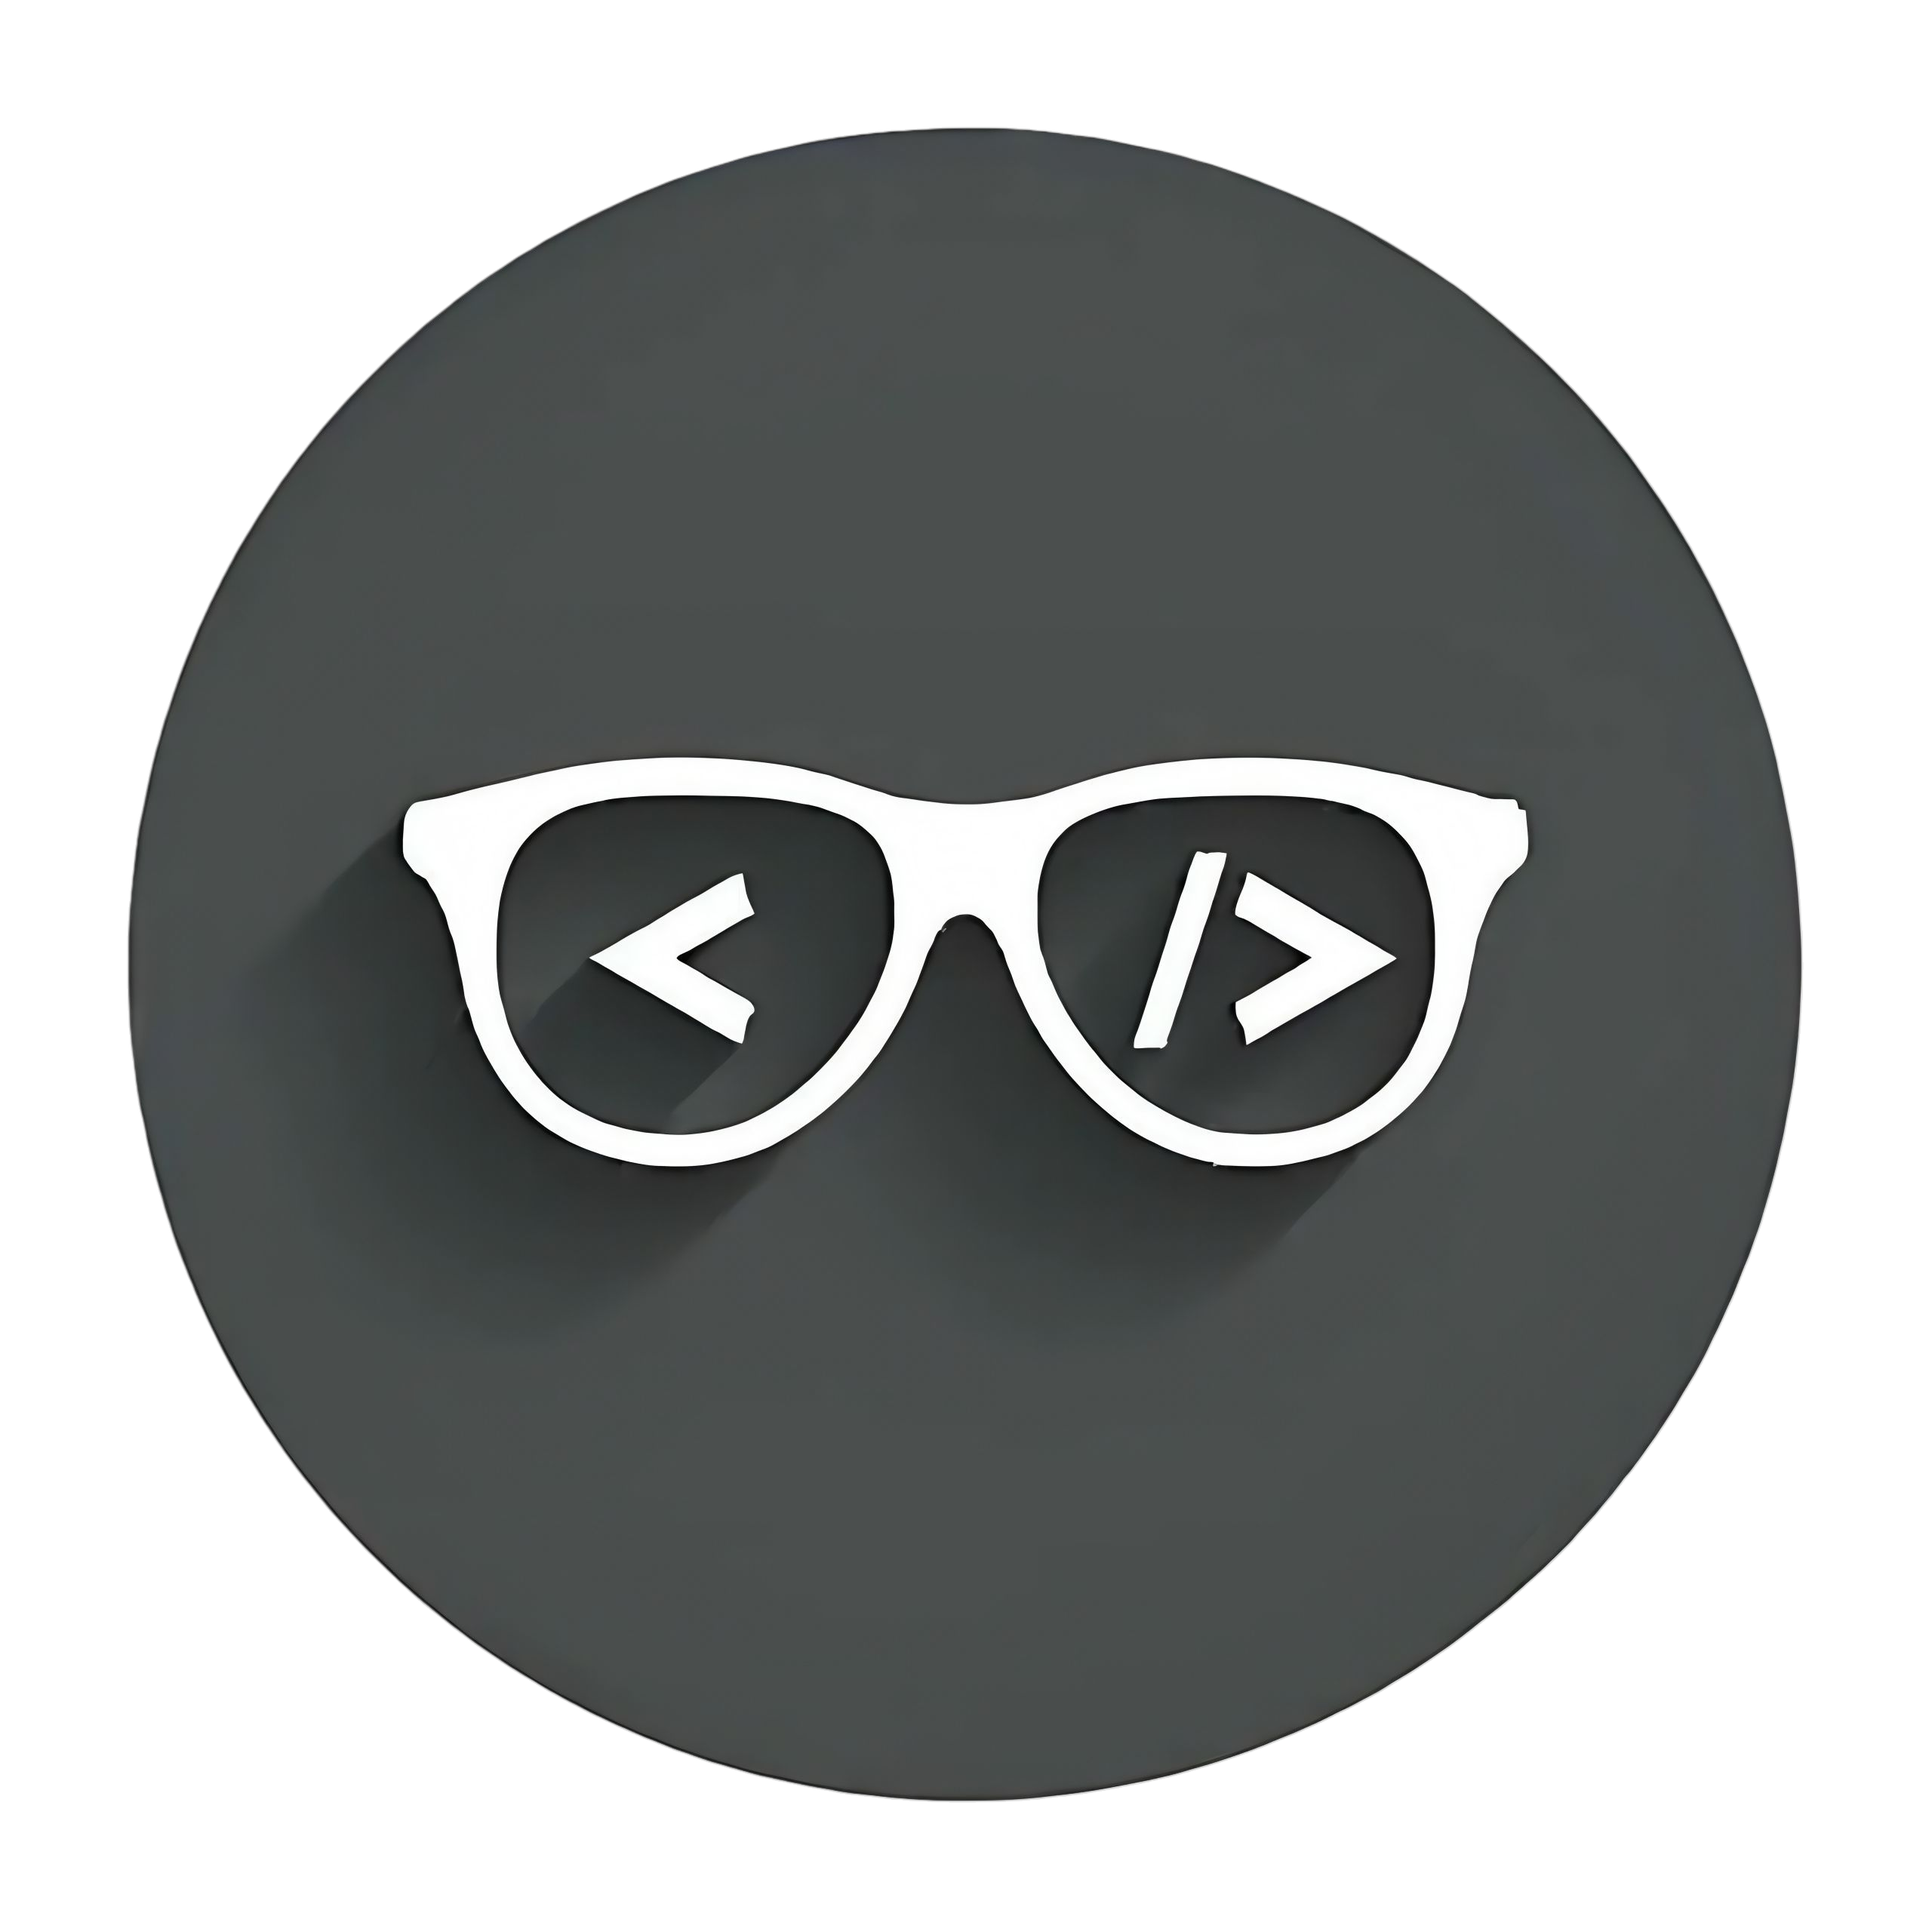
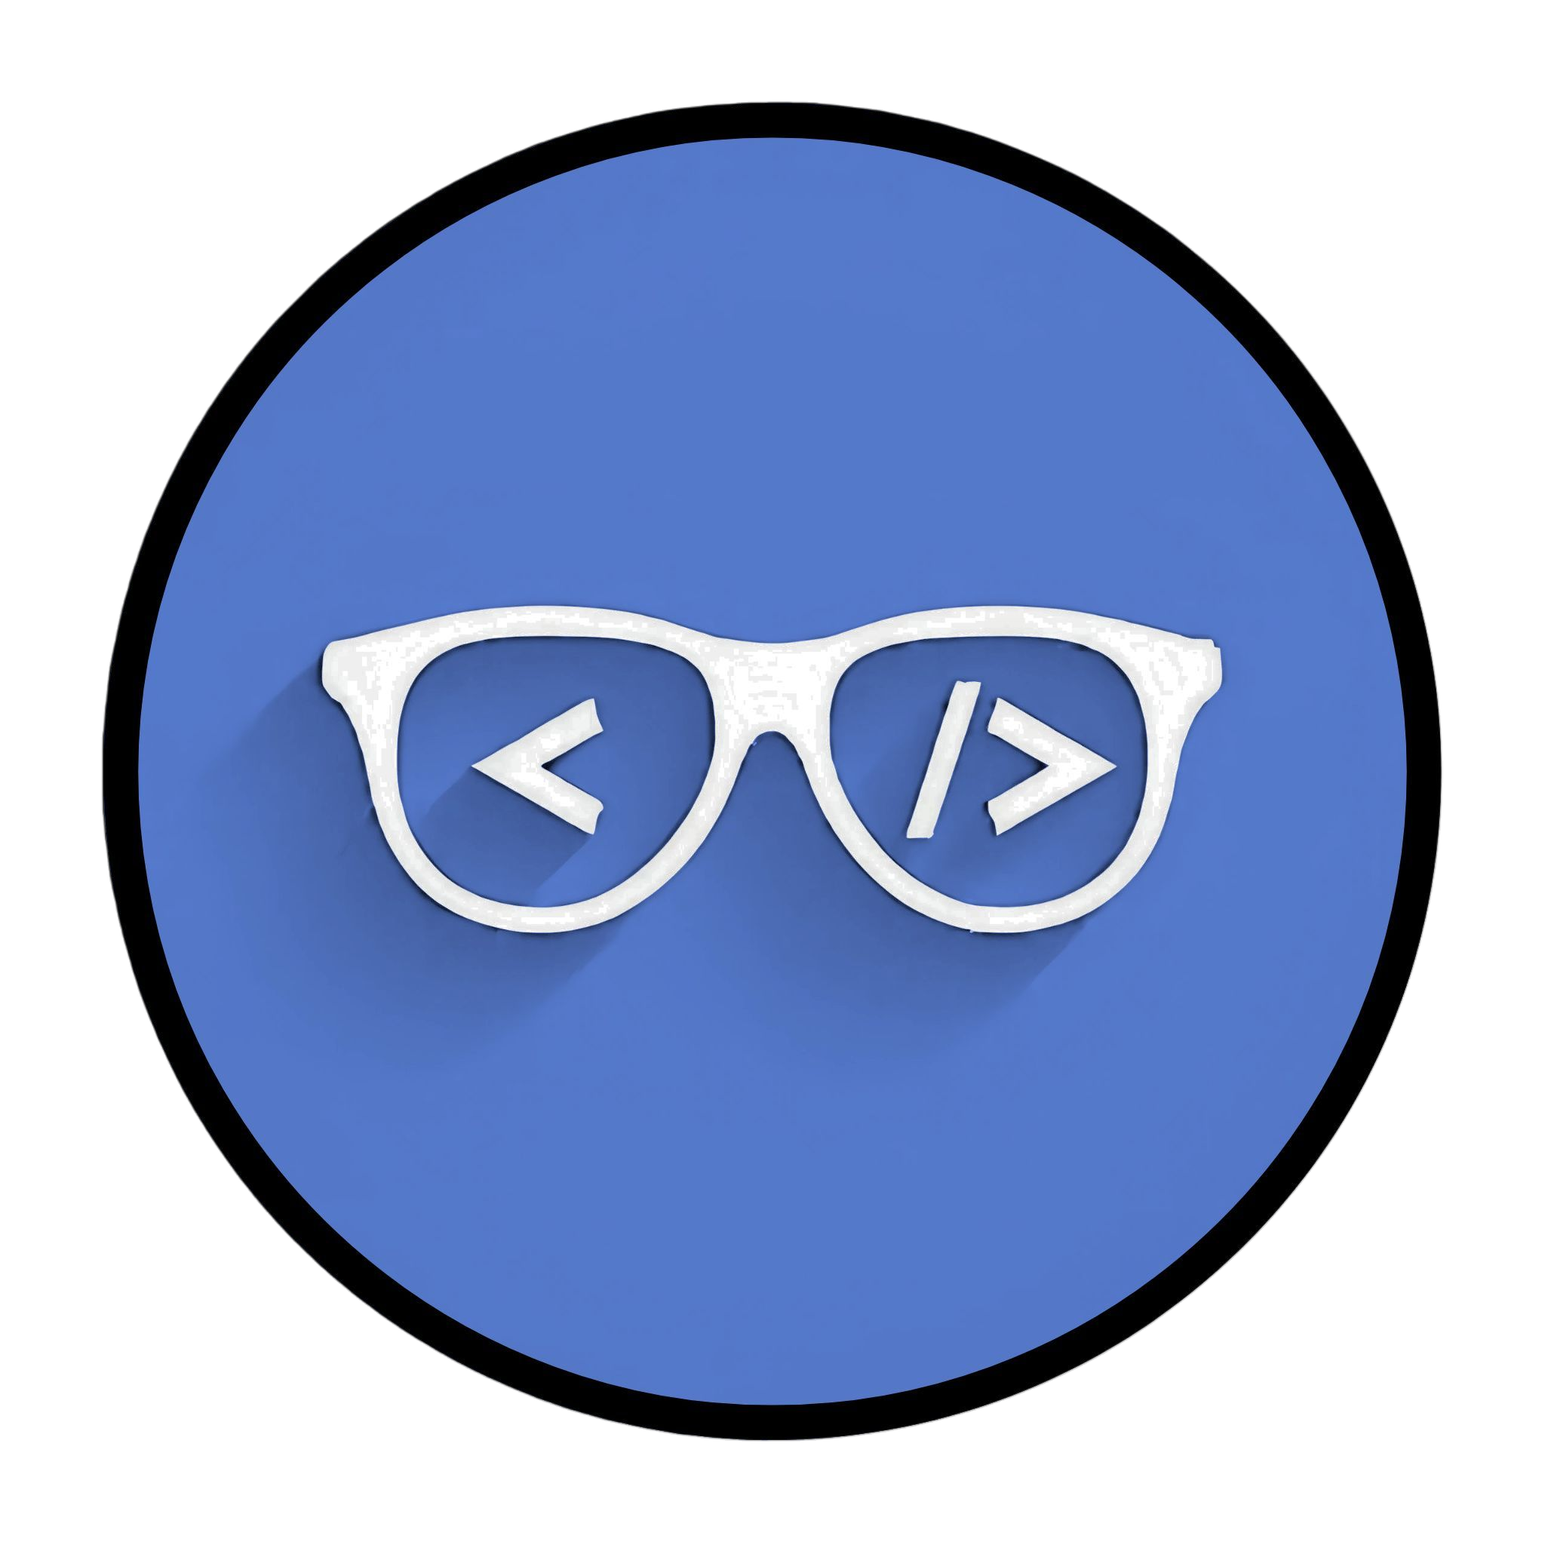
responsive design for large and medium screen. Header are finished.

diff --git a/src/Assets/Header-Blob/BlobClip.jsx b/src/Assets/Header-Blob/BlobClip.jsx
@@ -1,0 +1,26 @@
+import React from "react";
+import OmerTTech from "./OmerTTech.png";
+
+const BlobClip = () => {
+  const polygonPath =
+    "300px 58.74px, 300px 58.74px, 306.69px 71.81px, 311.41px 86.09px, 314.25px 101.37px, 315.27px 117.39px, 314.54px 133.92px, 312.16px 150.73px, 308.18px 167.58px, 302.68px 184.24px, 295.73px 200.46px, 287.42px 216.02px, 287.42px 216.02px, 277.82px 230.69px, 267.09px 244.33px, 255.38px 256.79px, 242.81px 267.95px, 229.56px 277.67px, 215.76px 285.82px, 201.55px 292.26px, 187.09px 296.86px, 172.52px 299.48px, 157.99px 300px, 157.99px 300px, 143.63px 298.4px, 129.53px 294.7px, 115.76px 289.07px, 102.37px 281.65px, 89.45px 272.6px, 77.07px 262.08px, 65.29px 250.23px, 54.18px 237.2px, 43.82px 223.16px, 34.27px 208.25px, 34.27px 208.25px, 25.62px 192.72px, 17.99px 176.69px, 11.52px 160.38px, 6.35px 143.99px, 2.63px 127.73px, 0.49px 111.8px, 0.06px 96.42px, 1.5px 81.78px, 4.94px 68.1px, 10.52px 55.58px, 10.52px 55.58px, 18.41px 44.47px, 28.36px 34.68px, 40.16px 26.19px, 53.55px 18.96px, 68.32px 12.96px, 84.22px 8.14px, 101.01px 4.47px, 118.47px 1.91px, 136.35px 0.44px, 154.43px 0px, 154.43px 0px, 172.48px 0.65px, 190.29px 2.34px, 207.67px 5.11px, 224.41px 9px, 240.31px 14.08px, 255.15px 20.38px, 268.75px 27.95px, 280.89px 36.83px, 291.38px 47.08px, 300px 58.74px";
+  return (
+    <div>
+      <div
+        className="lg:w-[320px] lg:h-[320px] bg-main hover:bg-[#5b7fd1] transition  overflow-hidden"
+        style={{
+          clipPath: `polygon(${polygonPath})`,
+          WebkitClipPath: `polygon(${polygonPath})`,
+        }}
+      >
+        <img
+          src={OmerTTech}
+          alt="My image"
+          className="w-full h-full object-contain saturate-85 brightness-120 bg-size-[30px] drop-shadow-2xl decoration-black scale-110 mt-5"
+        />
+      </div>
+    </div>
+  );
+};
+
+export default BlobClip;

diff --git a/src/Components/Header.jsx b/src/Components/Header.jsx
@@ -6,33 +6,31 @@ import ScrollLink from "./ScrollLink";
 
 const Header = () => {
   return (
-    <div>
-      <h1 className="text-5xl/18 font-[600] w-100">
-        Hi, I am <br />
-        Omer Tapdiqov
-      </h1>
+    <div className="bg-red-500">
+      <h1 className="sm:text-3xl/18 md:text-[32px]/12 md:mt-2 lg:text-5xl/18 font-[600] w-full sm:block md:flex lg:flex flex-col flex-wrap md:flex-nowrap">
+  <span>Hi, I am&nbsp;</span>
+  <span>Omer Tapdiqov</span>
+</h1>
       <div className="mt-2">
         <TypeAnimation
           sequence={[
             // Same substring at the start will only be typed once, initially
             "I am a Web Developer",
-            1500,
+            1250,
             "I am a Frontend Developer",
             2500,
-            "I’m becoming a JavaScript Full Stack Developer",
-            1000,
-            "I aim to be a Senior JavaScript Software Developer",
-            1000,
           ]}
           speed={60}
+          cursor={false}
           className="text-zinc-500 text-xl font-[500]"
           repeat={Infinity}
+          wrapper="span"
         />
         <div className="mt-6">
           <ScrollLink to="contact" duration={2250}>
             <Button
               variant="contained"
-              className="!capitalize !p-2 !text-lg !font-[500] !pe-2.5 !bg-main hover:!bg-light-hover ease"
+              className="!capitalize md:!p-3 lg:!p-2 !text-lg !font-[500] md:!pe-3.5 lg:!pe-2.5 !bg-main hover:!bg-dark-hover ease"
               endIcon={<TbSend2 />}
             >
               Contact Me

diff --git a/src/Public/PublicHome.jsx b/src/Public/PublicHome.jsx
@@ -1,10 +1,11 @@
 import React, { useEffect } from "react";
 import Navbar from "../Components/Navbar";
-import SocialIcons from "../Components/SocialIcons";
-import Header from "../Components/Header";
 import { Element, animateScroll as scroll } from "react-scroll";
+import Main from "../Components/Main";
 
 const PublicHome = () => {
+  
+
   useEffect(() => {
     if (window.scrollY < 1) {
       scroll.scrollTo(1);
@@ -12,21 +13,11 @@ const PublicHome = () => {
   }, []);
   return (
     <div className="flex flex-col items-center justify-center ps-4">
-      <div className="w-[1000px] fixed top-0 z-50 flex flex-col items-center">
+      <div className="w-full fixed top-0 z-50 flex flex-col items-center">
         <Navbar />
       </div>
-      <Element name="home" className="w-[1000px]" offset={-70}>
-        <main className="mt-38.5">
-          <section className="grid grid-cols-12">
-            <div className="col-span-1">
-              <SocialIcons />
-            </div>
-            <div className="col-span-8 pt-7.5 ps-20">
-              <Header />
-            </div>
-            <div className="col-span-3">2</div>
-          </section>
-        </main>
+      <Element name="home" className="max-w-[1000px] w-full" offset={-70}>
+        <Main/>
       </Element>
       <Element name="about">
         <section className="h-[100vh]">a</section>

diff --git a/src/Components/Navbar.jsx b/src/Components/Navbar.jsx
@@ -6,16 +6,16 @@ import ScrollLink from "./ScrollLink";
 
 const Navbar = () => {
   return (
-    <nav className="w-[1000px] flex items-center justify-between py-5.5 px-2 text-sm font-[500] bg-white">
+    <nav className="max-w-[1000px] w-full flex items-center justify-between py-5.5 lg:px-2 md:px-5 text-sm font-[500] bg-white">
       <ScrollLink to="home">
         <div className="flex items-center text-[15px] tracking-widest cursor-pointer !text-black">
-          <img src={profile} width={30} height={30} />
+          <img src={profile} className="hover:contrast-125 hover:brightness-95 drop-shadow-black drop-shadow-2xs rounded-full" width={30} height={30} />
           merTTech
         </div>
       </ScrollLink>
       <div>
-        <ul className="flex items-center gap-5 *:px-2 *:py-1 text-[13.5px] tracking-wide *:hover:text-main cursor-pointer">
-          <ScrollLink to="home">
+        <ul className="flex items-center gap-5 *:px-2 *:py-0 text-[13.5px] tracking-wide *:hover:*:text-hover cursor-pointer">
+          <ScrollLink to="home" offset={-70}>
             <li>Home</li>
           </ScrollLink>
           <ScrollLink to="about">

diff --git a/src/Components/Main.jsx b/src/Components/Main.jsx
@@ -1,0 +1,24 @@
+import React from "react";
+import SocialIcons from "../Components/SocialIcons";
+import Header from "../Components/Header";
+import BlobClip from "../Assets/Header-Blob/BlobClip";
+
+const Main = () => {
+  return (
+    <main className="mt-38.5">
+      <section className="grid grid-cols-12">
+        <div className="md:col-span-2 lg:col-span-1 md:pe-10  bg-red-500">
+          <SocialIcons />
+        </div>
+        <div className="md:col-span-5 lg:col-span-6 md:translate-x-[-15px] lg:translate-x-0 pt-7.5 lg:ps-20 bg-red-400">
+          <Header />
+        </div>
+        <div className="md:col-span-5 lg:col-span-5">
+          <BlobClip />
+        </div>
+      </section>
+    </main>
+  );
+};
+
+export default Main;

diff --git a/src/App.css b/src/App.css
@@ -1,11 +1,12 @@
 @import "tailwindcss";
 
 @theme {
-  --color-main: #686a6c;
-  --color-hover: #4c504f;
-  --color-light-hover: #5a5a5a;
-  --color-dark-hover: #9c55ff;
+  --color-main: #5376cb;
+  --color-hover: #3154a9;
+  --color-light-hover: #6487dc;
+  --color-dark-hover: #4265ba;
   --color-white: #f5f5f5;
+  --color-dark: #161a4c;
 
   --drop-shadow-2xs: 0 0px 0.5px rgba(0, 0, 0, 0.1);
   --drop-shadow-3xs: 0 0px 0.375px rgba(0, 0, 0, 0.1);
@@ -15,12 +16,13 @@
 }
 
 .active {
-  color: #686a6c;
+  color: var(--color-main);
 }
 
 body {
   font-family: "Poppins", sans-serif;
   background-color: var(--color-white);
+  color: var(--color-dark);
 }
 a {
   text-decoration: unset;

diff --git a/src/Components/SocialIcons.jsx b/src/Components/SocialIcons.jsx
@@ -8,7 +8,7 @@ import { SlSocialLinkedin } from "react-icons/sl";
 
 const SocialIcons = () => {
   return (
-    <div className="flex flex-col gap-6 ps-4 text-xl text-main *:*:hover:text-hover mt-38 *:*:transition ease">
+    <div className="flex flex-col lg:items-start md:items-end bg-red-700 gap-6 ps-4 text-xl text-main *:*:hover:text-hover mt-38 *:*:transition ease">
       <a target="_blank" href="https://www.linkedin.com/in/Omerttech">
         <SlSocialLinkedin className="drop-shadow-black drop-shadow-2xs text-lg" />
       </a>

diff --git a/vite.config.js b/vite.config.js
@@ -1,8 +1,9 @@
 import { defineConfig } from "vite";
 import react from "@vitejs/plugin-react";
 import tailwindcss from "@tailwindcss/vite";
+import tailwindClipPath from "tailwind-clip-path";
 
 // https://vite.dev/config/
 export default defineConfig({
-  plugins: [react(), tailwindcss()],
+  plugins: [react(), tailwindcss(), tailwindClipPath()],
 });

diff --git a/src/Components/ScrollLink.jsx b/src/Components/ScrollLink.jsx
@@ -1,7 +1,7 @@
 import React from "react";
 import { Link } from "react-scroll";
 
-const ScrollLink = ({to = "/", duration = 500, offset=-70, children}) => {
+const ScrollLink = ({to = "/", duration = 500, offset=20, children}) => {
     
   return (
     <Link
